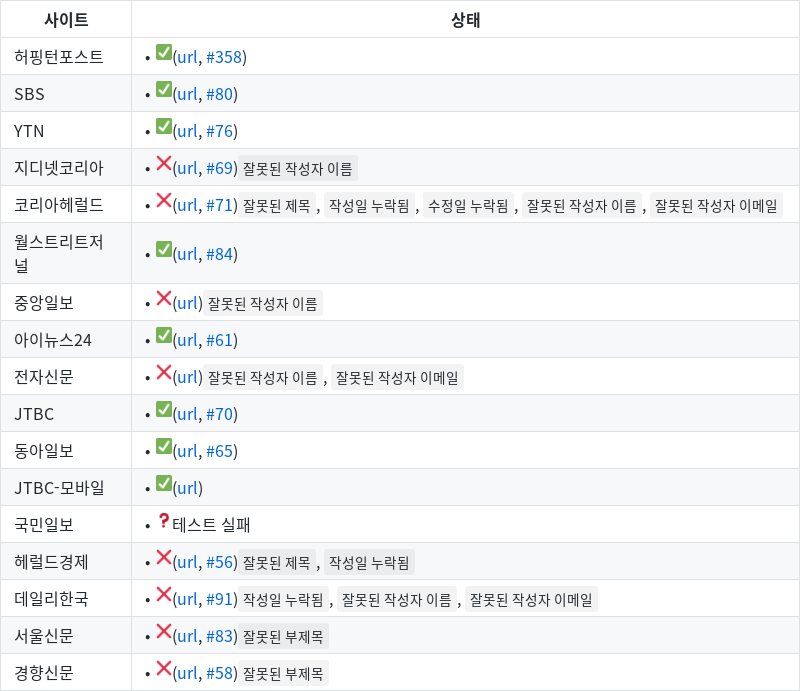
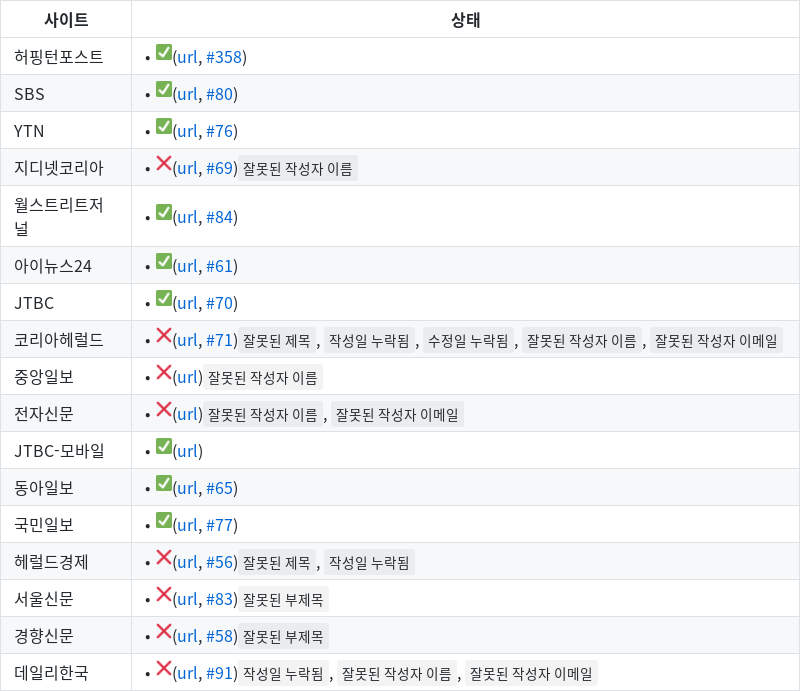
Fri May  8 00:12:40 UTC 2020

diff --git a/health-check.md b/health-check.md
@@ -4,16 +4,16 @@
 | SBS | • ✅([url](https://news.sbs.co.kr/news/endPage.do?news_id=N1002697236), [#80](https://github.com/disjukr/just-news/issues/#80)) |
 | YTN | • ✅([url](https://www.ytn.co.kr/_ln/0103_201411190800481989), [#76](https://github.com/disjukr/just-news/issues/#76)) |
 | 지디넷코리아 | • ❌([url](http://www.zdnet.co.kr/view/?no=20141104074223), [#69](https://github.com/disjukr/just-news/issues/#69))`잘못된 작성자 이름` |
-| 코리아헤럴드 | • ❌([url](http://khnews.kheraldm.com/view.php?ud=20141111001137&md=20141111180830_BK&kr=1), [#71](https://github.com/disjukr/just-news/issues/#71))`잘못된 제목`, `작성일 누락됨`, `수정일 누락됨`, `잘못된 작성자 이름`, `잘못된 작성자 이메일` |
 | 월스트리트저널 | • ✅([url](https://realtime.wsj.com/korea/2014/10/13/%EB%B0%95%EC%9B%90%EC%88%9C-%EC%84%9C%EC%9A%B8%EC%8B%9C%EC%9E%A5-%EB%AF%B8%EA%B5%AD-%EC%96%B8%EB%A1%A0%EC%97%90-%EB%8F%99%EC%84%B1%EA%B2%B0%ED%98%BC-%EC%A7%80%EC%A7%80-%EB%B0%9C%EC%96%B8/), [#84](https://github.com/disjukr/just-news/issues/#84)) |
-| 중앙일보 | • ❌([url](https://news.joins.com/article/23621286))`잘못된 작성자 이름` |
 | 아이뉴스24 | • ✅([url](http://www.inews24.com/view/860573), [#61](https://github.com/disjukr/just-news/issues/#61)) |
-| 전자신문 | • ❌([url](http://www.etnews.com/20191031000370?mc=ns_003_00006))`잘못된 작성자 이름`, `잘못된 작성자 이메일` |
 | JTBC | • ✅([url](http://news.jtbc.joins.com/article/article.aspx?news_id=NB10639468), [#70](https://github.com/disjukr/just-news/issues/#70)) |
-| 동아일보 | • ✅([url](http://news.donga.com/3/03/20141107/67723014/1), [#65](https://github.com/disjukr/just-news/issues/#65)) |
+| 코리아헤럴드 | • ❌([url](http://khnews.kheraldm.com/view.php?ud=20141111001137&md=20141111180830_BK&kr=1), [#71](https://github.com/disjukr/just-news/issues/#71))`잘못된 제목`, `작성일 누락됨`, `수정일 누락됨`, `잘못된 작성자 이름`, `잘못된 작성자 이메일` |
+| 중앙일보 | • ❌([url](https://news.joins.com/article/23621286))`잘못된 작성자 이름` |
+| 전자신문 | • ❌([url](http://www.etnews.com/20191031000370?mc=ns_003_00006))`잘못된 작성자 이름`, `잘못된 작성자 이메일` |
 | JTBC-모바일 | • ✅([url](http://mnews.jtbc.joins.com/News/Article.aspx?news_id=NB11866214)) |
-| 국민일보 | • ❓테스트 실패 |
+| 동아일보 | • ✅([url](http://news.donga.com/3/03/20141107/67723014/1), [#65](https://github.com/disjukr/just-news/issues/#65)) |
+| 국민일보 | • ✅([url](http://news.kmib.co.kr/article/view.asp?arcid=0008864720&code=61121111), [#77](https://github.com/disjukr/just-news/issues/#77)) |
 | 헤럴드경제 | • ❌([url](http://news.heraldcorp.com/view.php?ud=20141023000202&md=20141023091209_BK), [#56](https://github.com/disjukr/just-news/issues/#56))`잘못된 제목`, `작성일 누락됨` |
-| 데일리한국 | • ❌([url](http://daily.hankooki.com/lpage/politics/201412/dh20141219103740137430.htm), [#91](https://github.com/disjukr/just-news/issues/#91))`작성일 누락됨`, `잘못된 작성자 이름`, `잘못된 작성자 이메일` |
 | 서울신문 | • ❌([url](http://seoul.co.kr/news/newsView.php?id=20141204500025), [#83](https://github.com/disjukr/just-news/issues/#83))`잘못된 부제목` |
 | 경향신문 | • ❌([url](http://biz.khan.co.kr/khan_art_view.html?artid=201410311921301&code=920100&med=khan), [#58](https://github.com/disjukr/just-news/issues/#58))`잘못된 부제목` |
+| 데일리한국 | • ❌([url](http://daily.hankooki.com/lpage/politics/201412/dh20141219103740137430.htm), [#91](https://github.com/disjukr/just-news/issues/#91))`작성일 누락됨`, `잘못된 작성자 이름`, `잘못된 작성자 이메일` |
